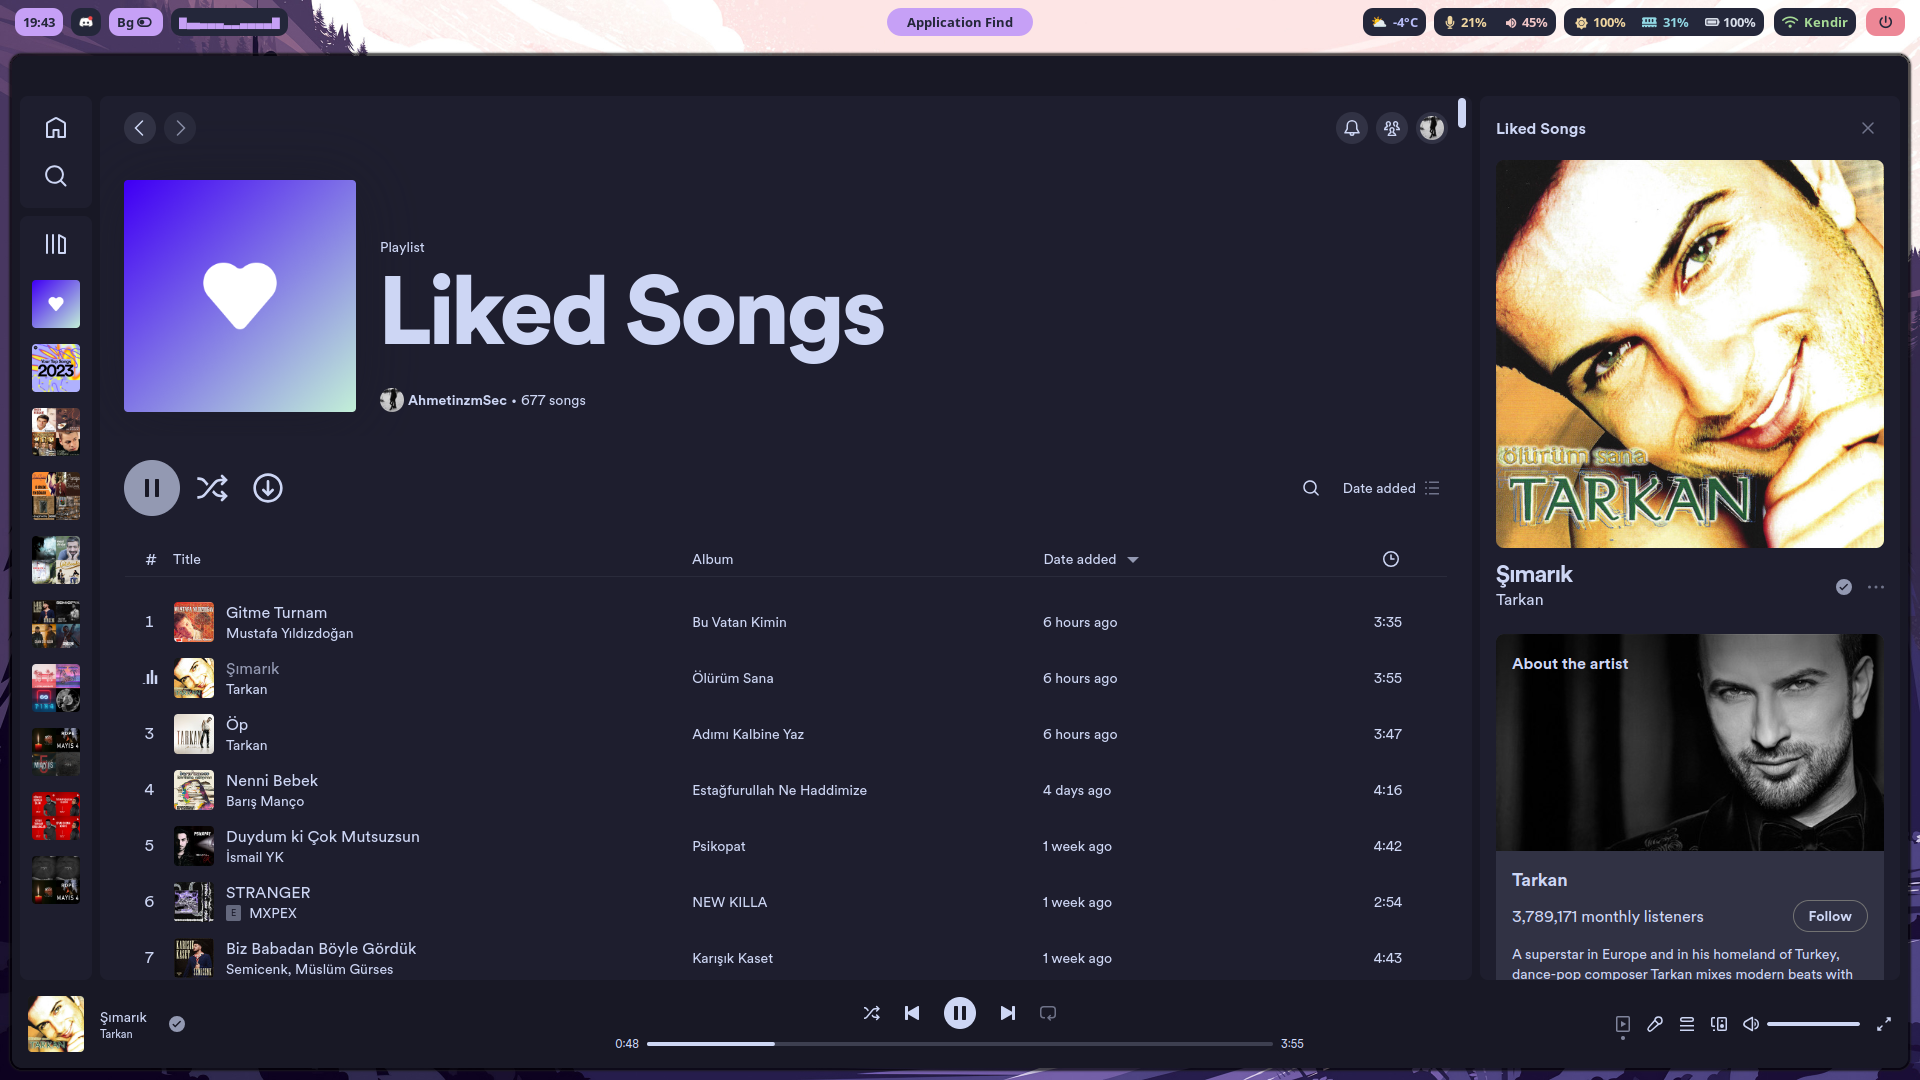
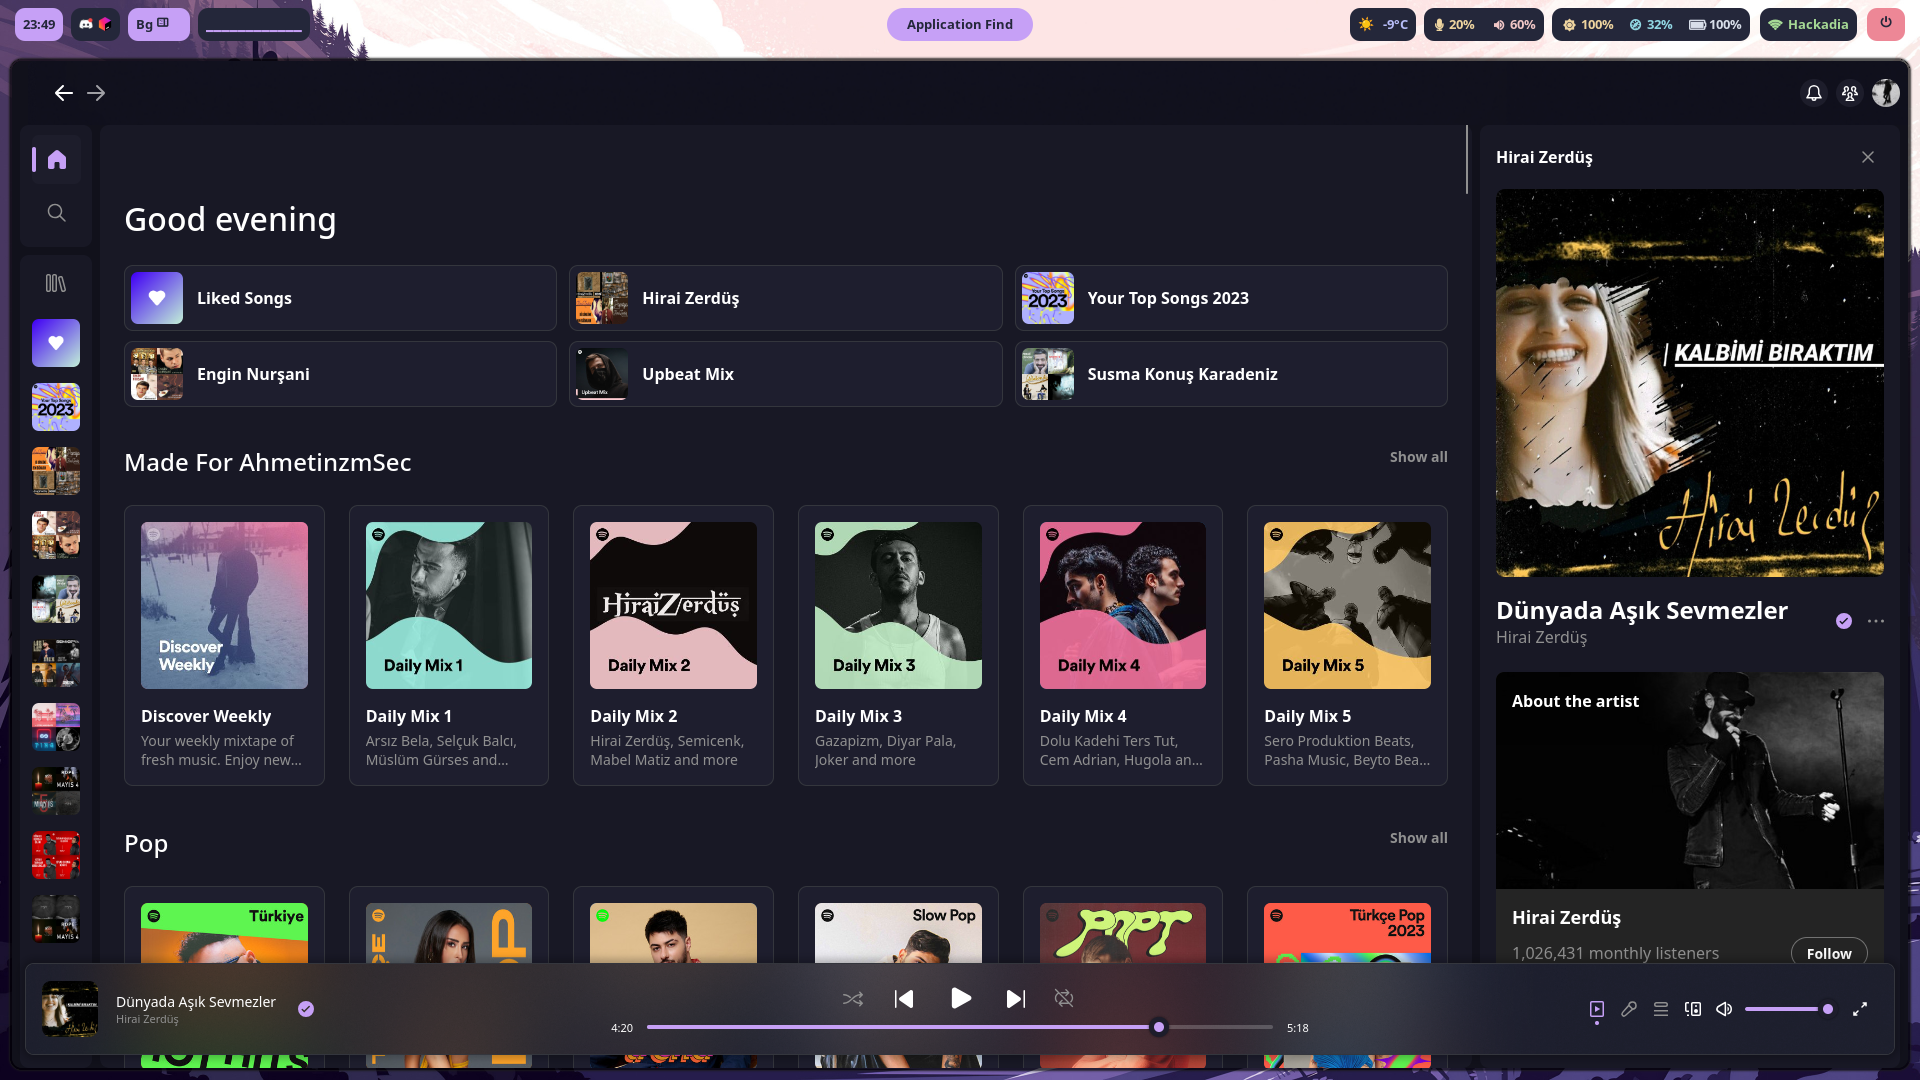
SA

diff --git a/README.md b/README.md
@@ -69,9 +69,7 @@ Let's install our software:
 
 ```
 [Arch Linux]
-sudo pacman -Syy
-
-yay -S nm-connection-editor nwg-darwer cava mpd sway tmux hyprland waybar grimblast sddm brightnessctl playerctl swaylock-effects pamixer rofi-power-menu wf-recorder btop zsh oh-my-zsh-powerline-theme-git ark unrar zip unzip pavucontrol xdg-desktop-portal-wlr neovim vim nano git wget swaybg dunst dolphin kvantum kate appimagelauncher-bin noto-fonts-emoji wl-clipboard xfce4-appfinder wofi catfish firefox kitty polkit-gnome gnome-keyring ntfs-3g cliphist qt5ct lxappearance tesseract-data-tur tesseract-data-eng tesseract-data-rus visual-studio-code-bin spicetify-cli jdk-openjdk jdk11-openjdk jdk8-openjdk discord bitwarden flatpak gimp kitty kdenlive inkscape konsole neofetch github-desktop-bin webapp-manager steam virt-manager qemu-desktop dnsmasq iptables-nft go yarn npm python-pip obsidian rofi syncthing portmaster-stub-bin
+yay -S nm-connection-editor nwg-darwer cava mpd sway tmux hyprland waybar grimblast sddm brightnessctl playerctl swaylock-effects pamixer rofi-power-menu wf-recorder btop zsh oh-my-zsh-powerline-theme-git ark unrar zip unzip pavucontrol xdg-desktop-portal-wlr neovim vim nano git wget swaybg dunst dolphin kvantum kate appimagelauncher-bin noto-fonts-emoji wl-clipboard xfce4-appfinder wofi catfish firefox kitty polkit-gnome gnome-keyring ntfs-3g cliphist qt5ct lxappearance tesseract-data-tur tesseract-data-eng tesseract-data-rus visual-studio-code-bin spicetify-cli jdk-openjdk jdk11-openjdk jdk8-openjdk discord bitwarden flatpak gimp kitty kdenlive inkscape konsole neofetch github-desktop-bin webapp-manager steam virt-manager qemu-desktop dnsmasq iptables-nft go yarn npm python-pip
 ```
 
 # Optional Softwares
@@ -136,6 +134,20 @@ Mauve
 
 make your choices. And finally it will ask you if you want to apply the theme. Specify that you want to apply the theme
 
+- Let's Change SDDM Theme
+
+I am sharing the real repo of SDDM Theme with you. Please download from the official repo to respect the effort:
+
+```
+git clone https://github.com/keyitdev/sddm-astronaut-theme.git
+
+sudo cp -r sddm-astronaut-theme/ /usr/share/themes/
+
+echo "[Theme]
+Current=sddm-astronaut-theme
+CursorTheme=Adwaita" | sudo tee /etc/sddm.conf
+
+```
 
 # Change Shell
 
@@ -164,10 +176,9 @@ spicetify backup apply enable-devtools
 - Apply Theme
 
 ```
-spicetify config current_theme catppuccin
-spicetify config color_scheme mocha
-spicetify config inject_css 1 inject_theme_js 1 replace_colors 1 overwrite_assets 1
-spicetify apply
+ spicetify config current_theme Bloom color_scheme dark
+ spicetify config inject_css 1 replace_colors 1 overwrite_assets 1 inject_theme_js 1
+ spicetify apply
 ```
 
 # Screenshot Desktop
